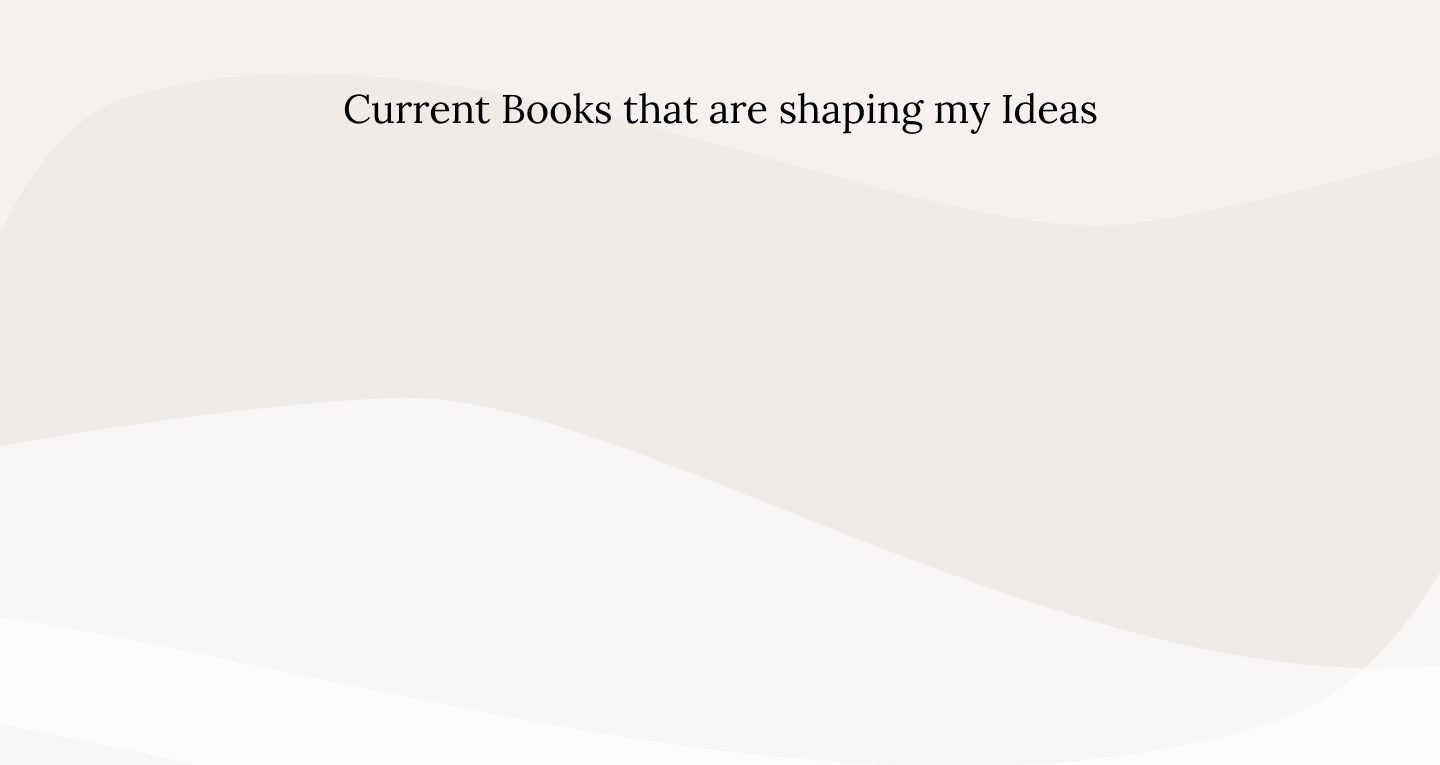
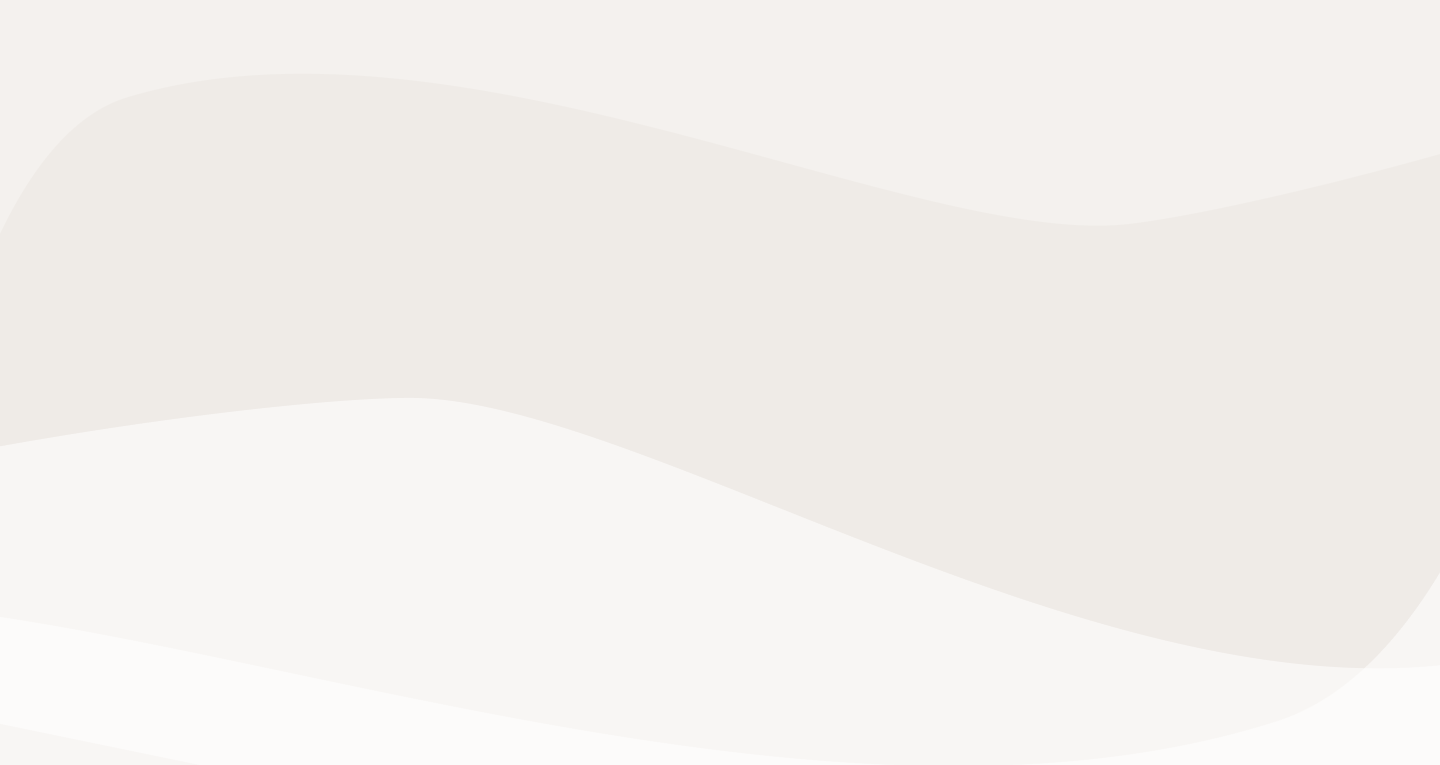
updates

Changed region(s): [[0.2188, 0.1203, 0.7812, 0.1804]]

diff --git a/app/practice/page.tsx b/app/practice/page.tsx
@@ -185,7 +185,8 @@ const illustrations = [
       'Conducted medium- to long-term trends research to inform strategic repositioning and future-facing inquiry within an innovation and policy context.'
   },
   {
-    title: 'Systems change narrative for multilateral collaboration (2019–2020)',
+    title:
+      'Systems change narrative for multilateral collaboration (2019–2020)',
     description:
       'Supported the development of shared language and strategic framing across a multi-stakeholder initiative, helping align diverse actors around systems-level change rather than fragmented interventions.'
   },
@@ -229,9 +230,12 @@ const testimonialHeadshots: Record<string, string> = {
 
 export default function Home() {
   const overrides = usePayloadOverrides('practice');
-  const t = (key: string, fallback: string) => overrides?.strings?.[key] || fallback;
-  const img = (key: string, fallbackSrc: string) => overrides?.images?.[key]?.src || fallbackSrc;
-  const alt = (key: string, fallbackAlt: string) => overrides?.images?.[key]?.alt || fallbackAlt;
+  const t = (key: string, fallback: string) =>
+    overrides?.strings?.[key] || fallback;
+  const img = (key: string, fallbackSrc: string) =>
+    overrides?.images?.[key]?.src || fallbackSrc;
+  const alt = (key: string, fallbackAlt: string) =>
+    overrides?.images?.[key]?.alt || fallbackAlt;
 
   const accordionBaseId = useId();
   const [openIllustrationIndex, setOpenIllustrationIndex] = useState<
@@ -254,7 +258,7 @@ export default function Home() {
   return (
     <div className={styles.container}>
       <section
-        className="relative w-full h-[560px] md:h-[709px] overflow-hidden"
+        className="relative w-full h-[520px] md:h-[600px] overflow-hidden"
         style={{
           background: 'linear-gradient(180deg, #E7E7E7 41.09%, #DCDCDC 100%)'
         }}
@@ -337,7 +341,9 @@ export default function Home() {
               className="font-normal text-[30px] md:text-[36px] lg:text-[40px] leading-normal text-[#1f1f1f] mb-4 md:whitespace-nowrap"
               style={{ fontFamily: 'var(--font-lora), serif' }}
             >
-              <span className={styles.brushHighlight}>Working inside Complexity</span>
+              <span className={styles.brushHighlight}>
+                Working inside Complexity
+              </span>
             </h2>
             <p
               className="text-[16px] font-normal leading-[110%] text-black max-w-[460px]"
@@ -347,7 +353,7 @@ export default function Home() {
                 fontSize: '16px',
                 fontStyle: 'normal',
                 fontWeight: 400,
-                lineHeight: '35px',
+                lineHeight: '35px'
               }}
             >
               My work is not about delivery against fixed methods or predefined
@@ -363,7 +369,7 @@ export default function Home() {
                 fontSize: '16px',
                 fontStyle: 'normal',
                 fontWeight: 400,
-                lineHeight: '35px',
+                lineHeight: '35px'
               }}
             >
               I engage through applied research, collaboration, advisory work,
@@ -397,7 +403,9 @@ export default function Home() {
               className="font-normal text-[30px] md:text-[40px] leading-normal text-[#1f1f1f] mb-4"
               style={{ fontFamily: 'var(--font-lora), serif' }}
             >
-              <span className={styles.brushHighlight}>How My Work Shows Up</span>
+              <span className={styles.brushHighlight}>
+                How My Work Shows Up
+              </span>
             </h2>
             <p
               className="text-[16px] font-normal leading-[110%] text-black max-w-[460px] mb-2"
@@ -407,7 +415,7 @@ export default function Home() {
                 fontSize: '16px',
                 fontStyle: 'normal',
                 fontWeight: 400,
-                lineHeight: '35px',
+                lineHeight: '35px'
               }}
             >
               Rather than offering a single methodology, my practice takes
@@ -421,7 +429,7 @@ export default function Home() {
                 fontSize: '16px',
                 fontStyle: 'normal',
                 fontWeight: 400,
-                lineHeight: '35px',
+                lineHeight: '35px'
               }}
             >
               Typical contributions include:
@@ -434,7 +442,7 @@ export default function Home() {
                 fontSize: '16px',
                 fontStyle: 'normal',
                 fontWeight: 400,
-                lineHeight: '35px',
+                lineHeight: '35px'
               }}
             >
               <li>
@@ -466,7 +474,7 @@ export default function Home() {
                 fontSize: '16px',
                 fontStyle: 'normal',
                 fontWeight: 400,
-                lineHeight: '35px',
+                lineHeight: '35px'
               }}
             >
               This work is shaped by inquiry rather than prescription, and by
@@ -491,7 +499,7 @@ export default function Home() {
                 fontSize: '16px',
                 fontStyle: 'normal',
                 fontWeight: 400,
-                lineHeight: '35px',
+                lineHeight: '35px'
               }}
             >
               My applied work has taken place across a range of systems and
@@ -505,7 +513,7 @@ export default function Home() {
                 fontSize: '16px',
                 fontStyle: 'normal',
                 fontWeight: 400,
-                lineHeight: '35px',
+                lineHeight: '35px'
               }}
             >
               <li>Multilateral and UN systems</li>
@@ -524,7 +532,7 @@ export default function Home() {
                 fontSize: '16px',
                 fontStyle: 'normal',
                 fontWeight: 400,
-                lineHeight: '35px',
+                lineHeight: '35px'
               }}
             >
               These contexts are where many of the questions explored on the
@@ -576,7 +584,7 @@ export default function Home() {
                     fontSize: '16px',
                     fontStyle: 'normal',
                     fontWeight: 400,
-                    lineHeight: '35px',
+                    lineHeight: '35px'
                   }}
                 >
                   {item.description}
@@ -592,7 +600,9 @@ export default function Home() {
           className="font-normal text-[30px] md:text-[40px] leading-normal text-[#1f1f1f] mb-8 md:mb-12"
           style={{ fontFamily: 'var(--font-lora), serif' }}
         >
-          <span className={styles.brushHighlight}>Organisations I have Supported</span>
+          <span className={styles.brushHighlight}>
+            Organisations I have Supported
+          </span>
         </h2>
         <div className="grid grid-cols-2 md:grid-cols-3 lg:grid-cols-5 gap-8 mb-8">
           {supportedOrganisationLogos.map((fileName) => (
@@ -690,7 +700,7 @@ export default function Home() {
                             fontSize: '16px',
                             fontStyle: 'normal',
                             fontWeight: 400,
-                            lineHeight: '35px',
+                            lineHeight: '35px'
                           }}
                         >
                           {item.description}
@@ -711,16 +721,16 @@ export default function Home() {
             className="font-normal text-[30px] md:text-[40px] leading-[1.2] text-[#1f1f1f] max-w-[520px]"
             style={{ fontFamily: 'var(--font-lora), serif' }}
           >
-            <span className={styles.brushHighlight}>Nice things people say</span>
+            <span className={styles.brushHighlight}>
+              Nice things people say
+            </span>
           </h2>
           <div className="flex gap-4 self-end">
             <button
               type="button"
               aria-label="Previous testimonials"
               className="hover:opacity-75 transition-opacity"
-              onClick={() =>
-                setTestimonialStartIndex((current) => current - 1)
-              }
+              onClick={() => setTestimonialStartIndex((current) => current - 1)}
             >
               <ArrowLeftIcon />
             </button>
@@ -728,9 +738,7 @@ export default function Home() {
               type="button"
               aria-label="Next testimonials"
               className="hover:opacity-75 transition-opacity"
-              onClick={() =>
-                setTestimonialStartIndex((current) => current + 1)
-              }
+              onClick={() => setTestimonialStartIndex((current) => current + 1)}
             >
               <ArrowRightIcon />
             </button>
@@ -774,7 +782,7 @@ export default function Home() {
                     fontSize: '16px',
                     fontStyle: 'normal',
                     fontWeight: 400,
-                    lineHeight: '35px',
+                    lineHeight: '35px'
                   }}
                 >
                   {testimonial.text}
@@ -811,7 +819,7 @@ export default function Home() {
                     fontSize: '16px',
                     fontStyle: 'normal',
                     fontWeight: 400,
-                    lineHeight: '35px',
+                    lineHeight: '35px'
                   }}
                 >
                   <p>
@@ -902,7 +910,7 @@ export default function Home() {
         </div>
       </section>
 
-      <section className="w-full px-0 pt-0 pb-6 md:pt-0 md:pb-8">
+      <section className="w-full px-0 pt-0 pb-0 md:pt-0 md:pb-0 mb-[55px]">
         <div className="bg-[#343433] w-full md:w-[80%] mr-auto px-6 md:px-10 lg:px-16 py-12 md:py-16 lg:py-20 min-h-[320px] md:min-h-[360px] lg:min-h-[420px] flex flex-col md:flex-row gap-8 lg:gap-14 items-center text-white!">
           <div className="relative w-[168px] h-[168px] rounded-full overflow-hidden shrink-0">
             <Image
@@ -921,28 +929,25 @@ export default function Home() {
               className="font-normal text-[36px] leading-[36.476px] text-white!"
               style={{ fontFamily: 'var(--font-lora), serif' }}
             >
-              Interested in working with me?{' '}
-              <a
-                href="/contact"
-                className="underline text-white!"
-                style={{ color: '#FFFFFF' }}
-              >
-                Get in touch.
-              </a>
+              If this resonates{' '}
             </p>
             <p
               className="text-[18px] leading-[35px] mt-4 max-w-[640px] text-white!"
               style={{ color: '#FFFFFF' }}
             >
-              I also offer a Free Strategic Coherence Conversation for
-              impact-driven leaders navigating complexity.
+              If you’re navigating complexity or transition and need a space for
+              clear thinking, honest advice, or simply a sounding board, as well
+              as support in putting your thinking into practice, I’d love to
+              hear from you. I offer{' '}
+              <strong>Strategic Coherence Conversations</strong> for leaders
+              working in impact-driven contexts.
             </p>
             <a
               href="/contact"
               className="inline-block mt-4 text-[18px] leading-[35px] underline text-white!"
               style={{ color: '#FFFFFF' }}
             >
-              Apply here →
+              → Request a conversation
             </a>
           </div>
         </div>

diff --git a/app/thinking/page.tsx b/app/thinking/page.tsx
@@ -815,6 +815,12 @@ export default function Thinking() {
       </section>
 
       <section className={styles.booksSection} aria-label="Current books">
+        <div className={`${styles.sectionHeadingCentered} ${styles.booksHeading}`}>
+          <span className={styles.sectionHeadingHighlightCentered} />
+          <h2 className={styles.sectionTitleCentered}>
+            Current Books that are shaping my Ideas
+          </h2>
+        </div>
         <div className={styles.booksGrid}>
           {[1, 2, 3].map((i) => (
             <div key={i} className={styles.booksCard}>

diff --git a/app/about/AboutClient.tsx b/app/about/AboutClient.tsx
@@ -598,7 +598,7 @@ export default function AboutClient({
         </div>
       </section>
 
-      <section className="w-full max-w-[1180px] mx-auto px-4 md:px-8 lg:px-12 py-8 md:py-10">
+      <section className="w-full max-w-[1180px] mx-auto px-4 md:px-8 lg:px-12 pt-8 md:pt-10 pb-0 mb-[55px]">
         <div className="bg-[#343433] p-5 md:p-8 lg:p-10 text-white">
           <div className="flex flex-col gap-8">
             <div style={{ filter: 'brightness(0) invert(1)' }}>

diff --git a/app/articles/[slug]/page.tsx b/app/articles/[slug]/page.tsx
@@ -90,7 +90,7 @@ export default function ArticleDetail() {
       <Navbar />
 
       {/* Main Content */}
-      <div className="w-full max-w-[1448px] mx-auto px-4 md:px-8 lg:px-16 pt-32 pb-16">
+      <div className="w-full max-w-[1448px] mx-auto px-4 md:px-8 lg:px-16 pt-32 pb-16 mb-[55px]">
         {/* Breadcrumb */}
         <p className="font-sans font-normal text-[14px] leading-[1.7] text-black mb-8">
           <Link href="/articles" className="hover:underline">

diff --git a/app/thinking/page.styles.module.css b/app/thinking/page.styles.module.css
@@ -669,6 +669,7 @@
   width: 100%;
   background: #dde4e6;
   overflow: hidden;
+  margin-bottom: 55px;
 }
 
 .evolutionInner {
@@ -796,9 +797,14 @@
   background-repeat: no-repeat;
   background-position: top center;
   background-size: 100% auto;
-  padding: clamp(100px, 14vw, 200px) 32px 56px;
+  padding: clamp(64px, 10vw, 120px) 32px 56px;
   margin: 0;
   overflow: hidden;
+}
+
+.booksHeading {
+  position: relative;
+  top: -56px;
 }
 
 .booksGrid {

diff --git a/app/projects/[slug]/page.tsx b/app/projects/[slug]/page.tsx
@@ -101,7 +101,7 @@ export default function ProjectDetail() {
 
   return (
     <div className={styles.container}>
-      <section className="relative w-full min-h-screen">
+      <section className="relative w-full min-h-screen mb-[55px]">
         <Navbar />
 
         <div className="w-full max-w-[1448px] mx-auto px-4 md:px-8 lg:px-16 pt-32 pb-16">

diff --git a/app/projects/page.tsx b/app/projects/page.tsx
@@ -70,7 +70,7 @@ export default function Projects() {
 
   return (
     <div className={styles.container}>
-      <section className="relative w-full min-h-screen">
+      <section className="relative w-full min-h-screen mb-[55px]">
         <Navbar />
 
         <div className="w-full max-w-[1448px] mx-auto px-4 md:px-8 lg:px-16 pt-32 pb-16">

diff --git a/app/articles/page.tsx b/app/articles/page.tsx
@@ -59,7 +59,7 @@ export default function Articles() {
   return (
     <div className={styles.container}>
       <section
-        className="relative w-full min-h-screen"
+        className="relative w-full min-h-screen mb-[55px]"
         // style={{ backgroundColor: '#EFEBE7' }}
       >
         <Navbar />

diff --git a/app/home/HomeClient.module.css b/app/home/HomeClient.module.css
@@ -387,7 +387,7 @@
   width: 100%;
   background: #ffffff;
   padding: 56px 0 32px;
-  margin-bottom: 88px;
+  margin-bottom: 55px;
   overflow: visible;
   position: relative;
   z-index: 1;
